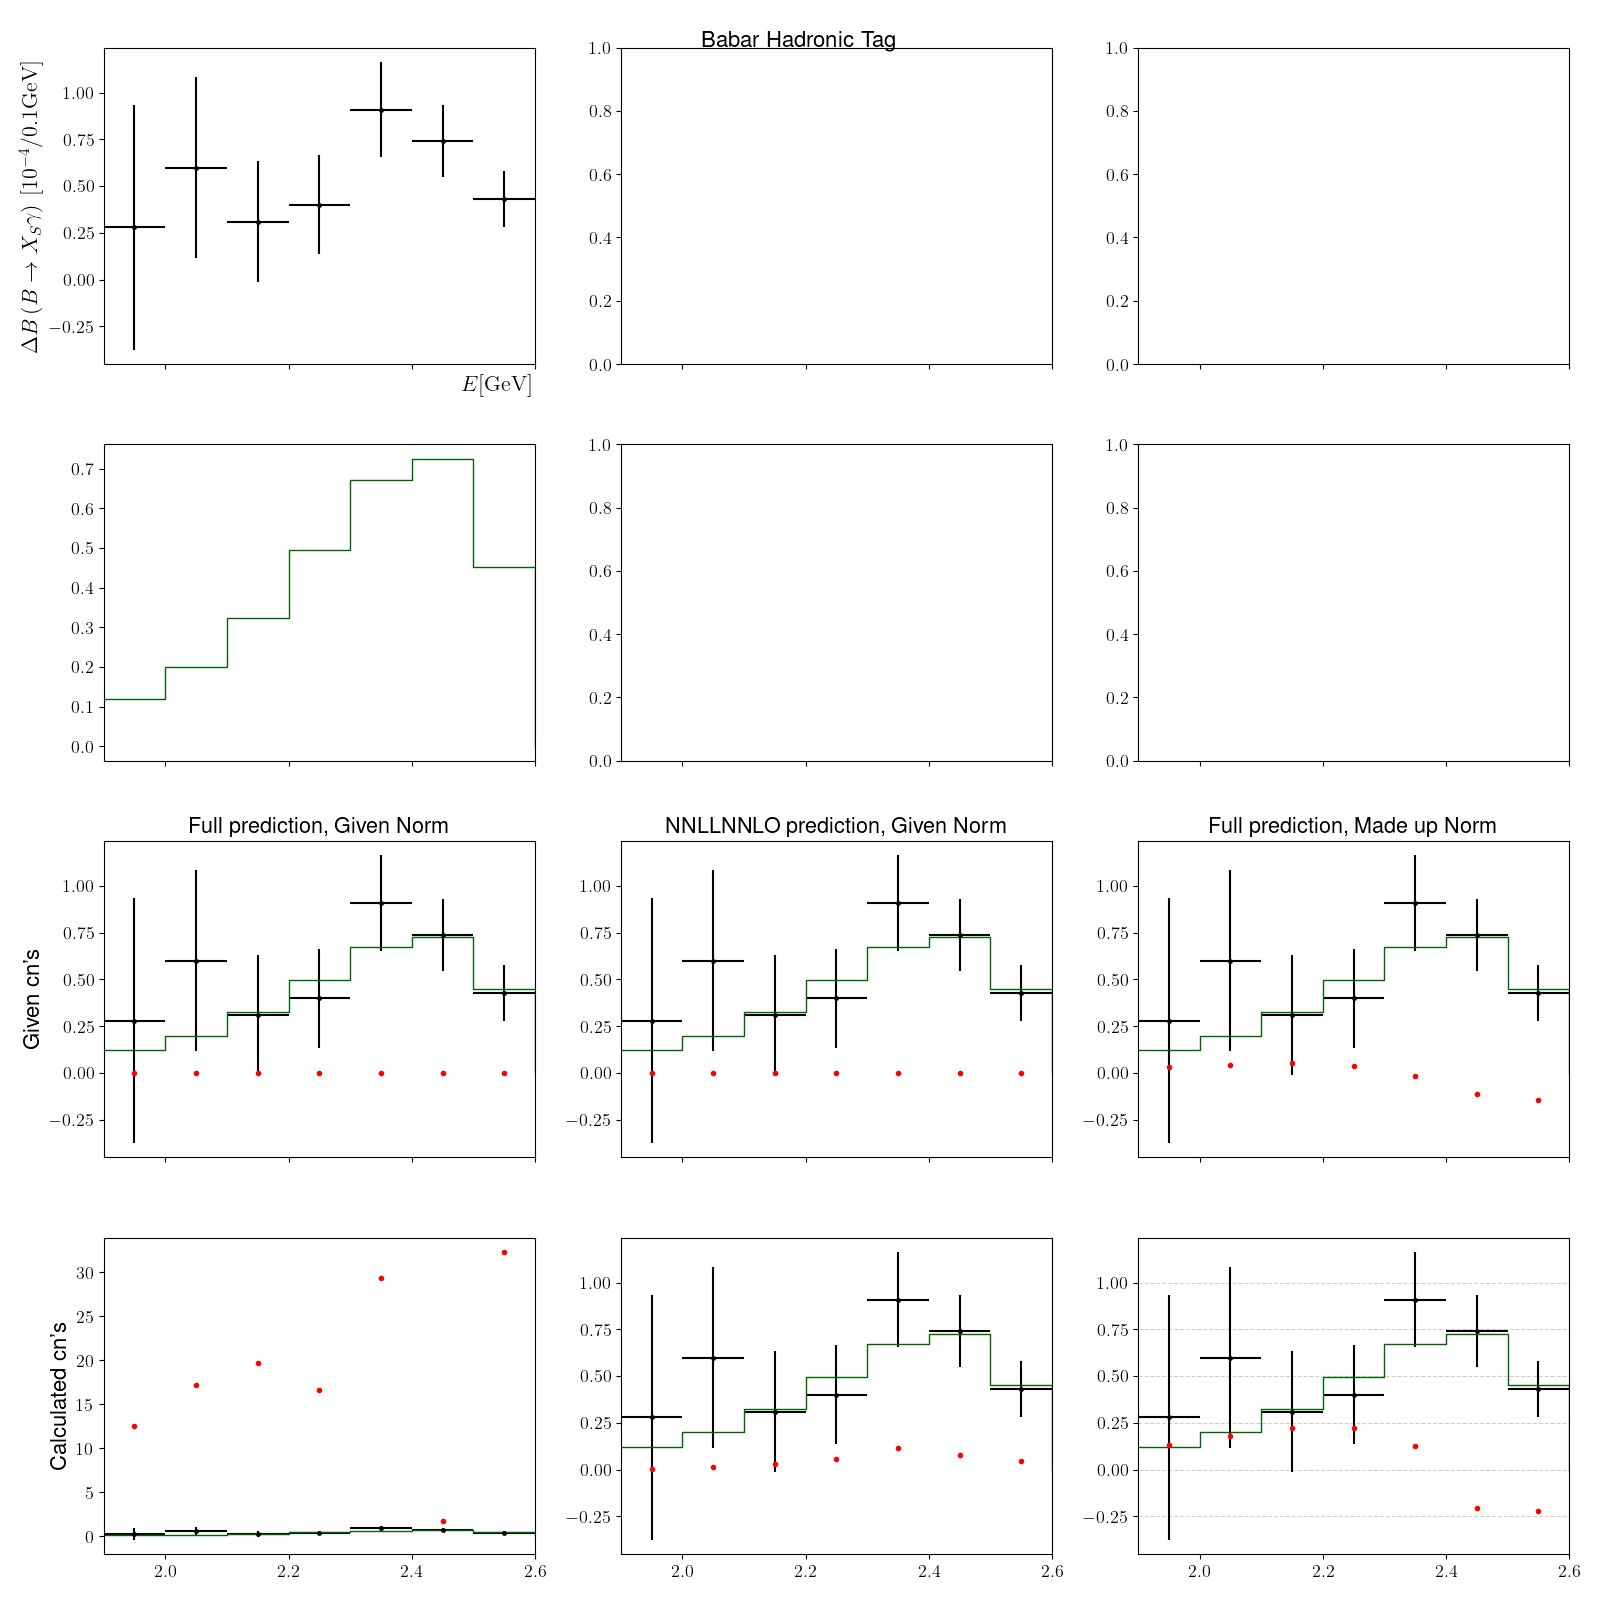
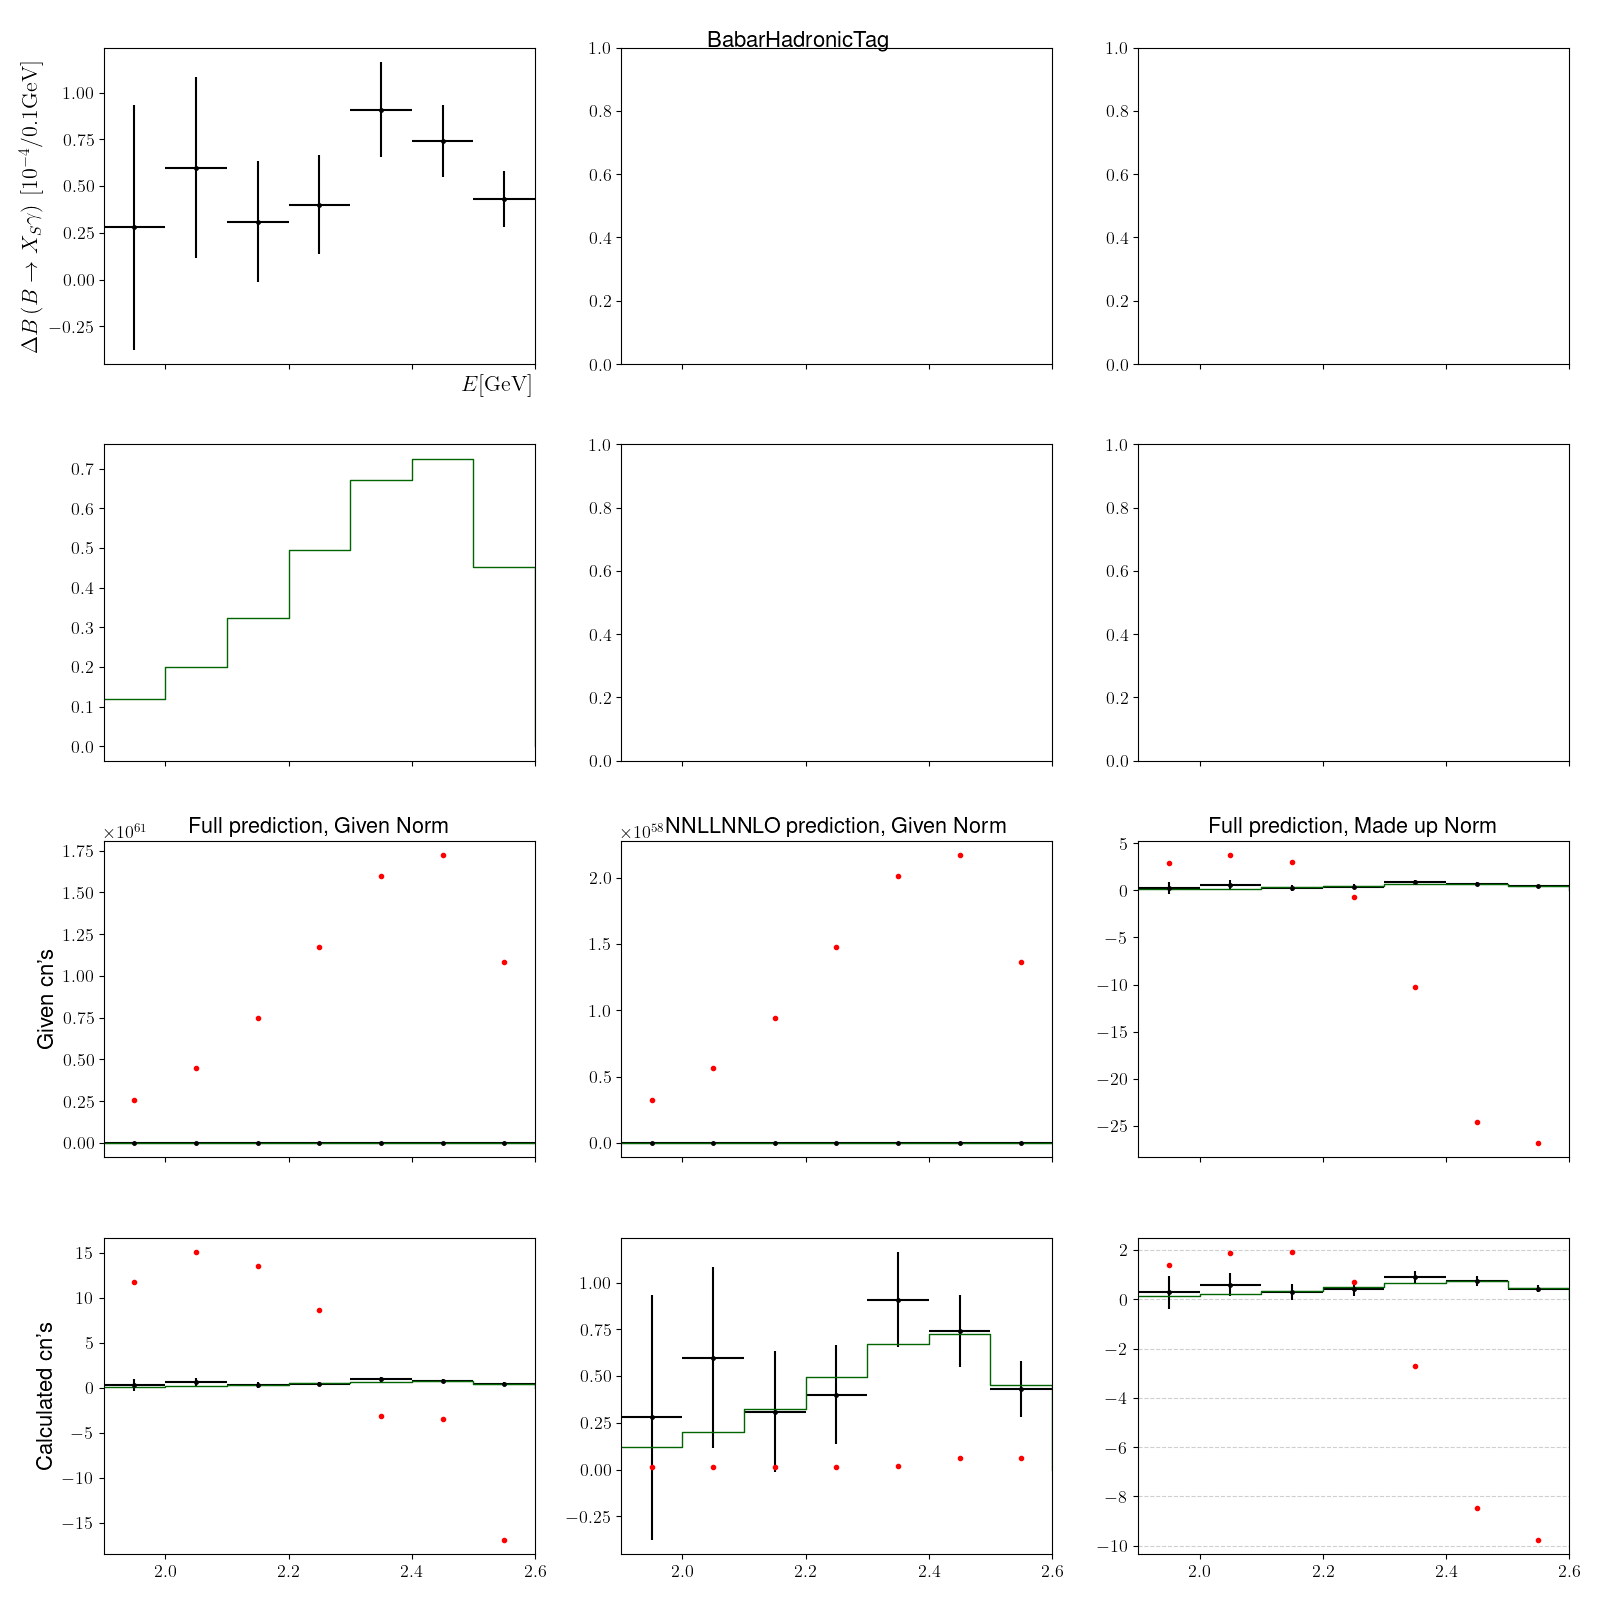
Plot changed, still no good Plot, Meas subleading removed, Fit still ok

diff --git a/Plot.py b/Plot.py
@@ -90,24 +90,18 @@ class Plot:
 
         if given_pred == True:
             test_fit_results = np.array([0.9956, 0.0641, 0.0624, 0.0267])
-            #test_fit_results = Meas.ConvertPars(test_fit_results)
-            #print('given pred')
-            #print(test_fit_results)
             if made_up_norm == True:
-                test_norm = 0.05
+                test_norm = 0.6
             else:
-                test_norm = 4.925 * 10 ** (-3)
+                test_norm = 4.925 * 10 ** (3)
         else:
-            test_fit_results = np.array([0.970778,-0.141763,-0.288871,0.881055,-0.150553,0.259134,-0.134743])
+            test_fit_results = np.array([ 0.97077755, -0.14176911, -0.28886564, 0.88106524, -0.15055227, 0.25913442, -0.13474348])
             test_fit_results = Meas.ConvertPars(test_fit_results)
-            print('calculated pred')
-            print(test_fit_results)
             if made_up_norm == True:
-                test_norm = 0.0970778 
+                test_norm = 0.4 
             else:
-                test_norm = test_fit_results[0]
+                test_norm = 0.97077755
             
-            test_fit_results = test_fit_results[1:]
 
 
         if full == True:

diff --git a/Meas.py b/Meas.py
@@ -69,8 +69,8 @@ class Meas:
         for order in range(np.size(settings.TheoryOrder)):
             pred += self.BsgPrediction(key, settings.TheoryOrder[order], end, c_n_params, norm ) * self.TheoryPrefactor(settings.TheoryOrder[order], norm)
         
-        for order in range(np.size(settings.SubLeadTheoryOrder)):
-            pred += self.BsgSubLeadingPrediction(key, self.SubLeadPars(c_n_params, settings.SubLeadCoefficients[order]), norm) * self.TheoryPrefactor(settings.SubLeadTheoryOrder[order], norm)
+        #for order in range(np.size(settings.SubLeadTheoryOrder)):
+            #pred += self.BsgSubLeadingPrediction(key, self.SubLeadPars(c_n_params, settings.SubLeadCoefficients[order]), norm) * self.TheoryPrefactor(settings.SubLeadTheoryOrder[order], norm)
 
         pred = np.matmul(self.exp_data[key]['Smear'],pred) 
 

diff --git a/Grab.py b/Grab.py
@@ -236,7 +236,7 @@ Tools.store_in_pickle(Fmn_moments, 'theory/Fmn_moments')
 #Experimental dictionary from 'measurements/%key%.root'
 
 # We can change the titles of the Plots here
-data_label_list = ["Babar\\Inclusive\\Spectra", "Babar\\Hadronic\\Tag", "Babar\\Semileptonic", "Belle"]
+data_label_list = ["Babar \newline InclusiveSpectra", "BabarHadronicTag", "BabarSemileptonic", "Belle"]
 
 data_tag_list = ["babar_incl", "babar_hadtag", "babar_sem", "belle"]
 
